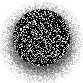
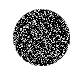
recreated the ball assets and marked them up

Changed region(s): [[0.0, 0.0, 1.0, 1.0], [0.7229, 0.0723, 0.7711, 0.0964], [0.8916, 0.2169, 0.9157, 0.241]]

diff --git a/public/index.html b/public/index.html
@@ -64,10 +64,20 @@
   </head>
 
   <body>
+
     <iframe src="http://nodeknockout.com/iframe/copypastel" frameborder=0 scrolling=no allowtransparency=true width=115 height=25>
     </iframe>
+
+    <div id="ball">
+      <div class="ball" id="logo"></div>
+      <div class="ball" id="shadow"></div>
+    </div>
+
     <div id="maze">
     </div>
-    <div id="status"></div>
+
+    <div id="status">
+    </div>
+    
   </body>
 </html>
